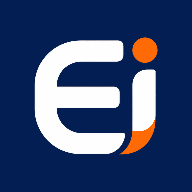
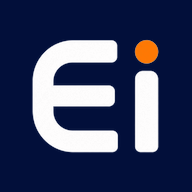
A marca nova entra, e os icones do app saem dela
A dona mandou o arquivo da logo nova. Ela e diferente da que estava no
app: o "i" agora e uma barra reta com a bolinha laranja em cima, sem o
rabinho laranja curvo que a anterior tinha na base.

O arquivo veio como PNG de 1254x1254 com o fundo azul embutido. O app
precisa da marca TRANSPARENTE, porque o mesmo arquivo serve ao cabecalho
branco (onde o CSS poe um quadrado azul atras) e a abertura azul (onde
nao poe). Entao o fundo foi tirado aqui.

A primeira tentativa desmisturava a borda pela distancia ate o azul, e
deixou halo: 502 pixels opacos azulados contornando o "E" e o "i", bem
visiveis sobre o papel branco.

O que funcionou foi usar o fato de a arte ser CHAPADA — duas cores so.
Para cada pixel decide-se qual das duas ele esta virando (branco ou
laranja), forca-se a cor chapada e a borda vira transparencia pura. Halo
restante: zero, conferido por contagem.

Os icones do app tambem saem dela agora — icon-192, icon-512,
apple-touch-icon e o maskable. O maskable leva a marca menor de
proposito: o Android recorta em circulo e so os 80% centrais sao
garantidos. Conferido por medicao: a marca chega a 164px do centro, e a
area segura e 205px.

E o azul do CSS passou a ser o MEDIDO na arte (#020f3a). Era #031e52 — um
azul parecido, mas outro: o cabecalho punha um quadrado de um tom atras
de uma marca de outro, e os dois encostados denunciam a diferenca.

A folga do quadrado tambem foi refeita. A anterior estava calibrada para
[…]

diff --git a/apps/profissionais/src/theme.css b/apps/profissionais/src/theme.css
@@ -116,7 +116,11 @@
      capacitor.config.ts e no `@color/abertura` do Android. Mudando um,
      mude os três — a diferença aparece como um pisca de cor entre a tela
      do sistema e a do app. */
-  --color-marca-azul: #031e52;
+  /* O azul da marca, MEDIDO na arte que a dona mandou (mediana do fundo do
+     PNG), e não escolhido de olho. Era #031e52 — um azul parecido, mas
+     diferente: o cabeçalho punha um quadrado de um tom atrás de uma marca
+     de outro, e os dois encostados denunciam a diferença. */
+  --color-marca-azul: #020f3a;
   /* Sobrou do desenho antigo e ainda é usado como cor de tinta em algumas
      telas. Aponta para a tinta nova até cada uma ser revisitada. */
   --color-navy: var(--color-text);
@@ -306,7 +310,12 @@ button {
   /* Padding em `em` da própria altura da imagem para a folga crescer junto
      com ela: proporcionalmente igual no cabeçalho pequeno e na tela de
      início grande. */
-  padding: 0.16em 0.2em;
+  /* A folga foi refeita quando a marca nova entrou (31/08). A anterior era
+     0.16/0.2em e vinha calibrada para o desenho antigo; com o novo, que é
+     um pouco mais alto, a bolinha do "i" quase encostava no topo do
+     quadrado. Na arte que a dona mandou a marca ocupa ~2/3 do quadrado —
+     estes valores reproduzem esse respiro. */
+  padding: 0.26em 0.3em;
   box-sizing: content-box;
 }
 

diff --git a/apps/profissionais/src/estilo-ei.css b/apps/profissionais/src/estilo-ei.css
@@ -66,7 +66,8 @@
      Continua sendo o navy e o laranja do logotipo. Aqui eles não pintam
      superfície nenhuma: servem de marcador de 2px e de tinta de etiqueta,
      que é como um app monocromático usa cor sem virar colorido. */
-  --ei-marca: #031e52;
+  /* Medido na arte da marca, igual ao --color-marca-azul. */
+  --ei-marca: #020f3a;
   --ei-laranja: #c2410c;
   --ei-verde: #1b6b3f;
 
